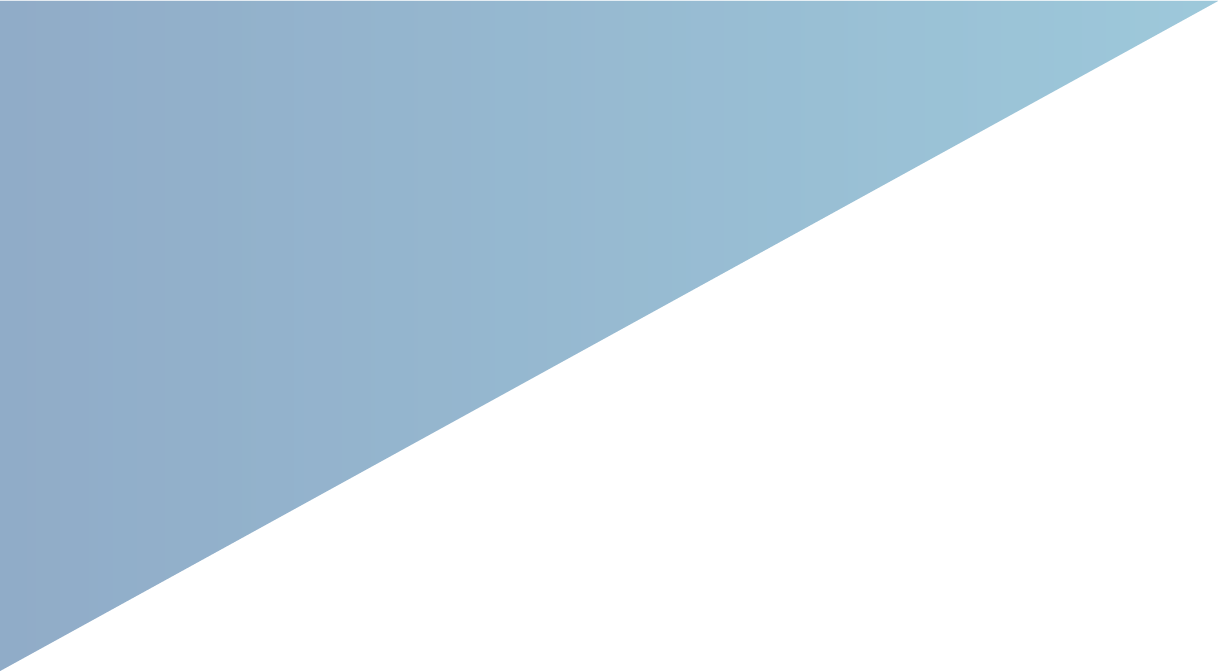
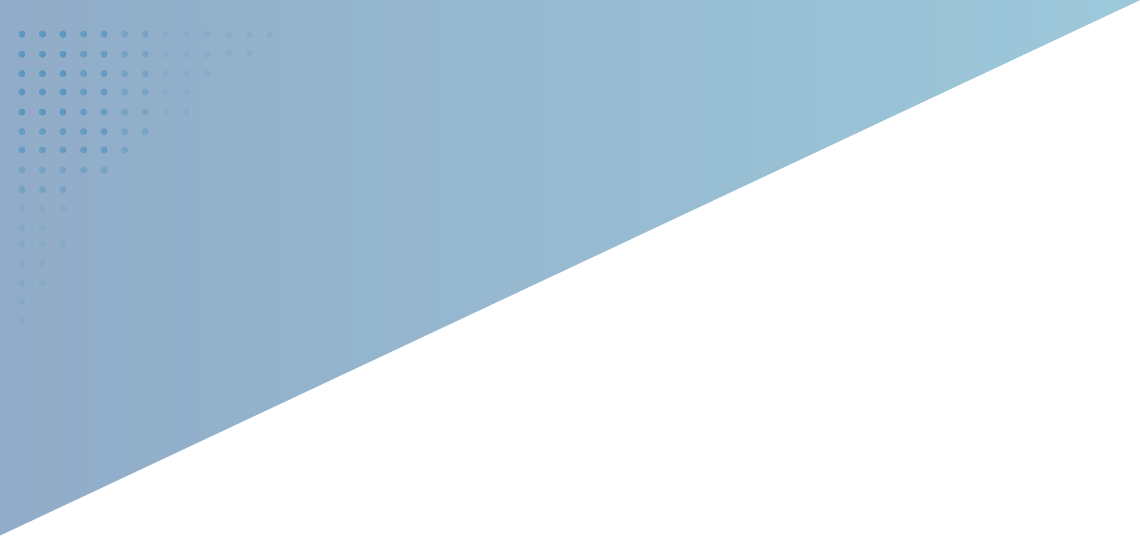
a

Changed region(s): [[0.0307, 0.0597, 0.0921, 0.1791], [0.0307, 0.2388, 0.0921, 0.3284], [0.9825, 0.0, 1.0, 0.0299]]

diff --git a/RSC/wwwroot/css/styles.css b/RSC/wwwroot/css/styles.css
@@ -249,6 +249,9 @@ nav {
     min-height: 670px;
     
     background-image: url(../../img/sliderbackground.png);
+    background-size: 1140px 670px;
+    background-repeat: no-repeat;
+    background-position-x: 0px;
 
 }
 
